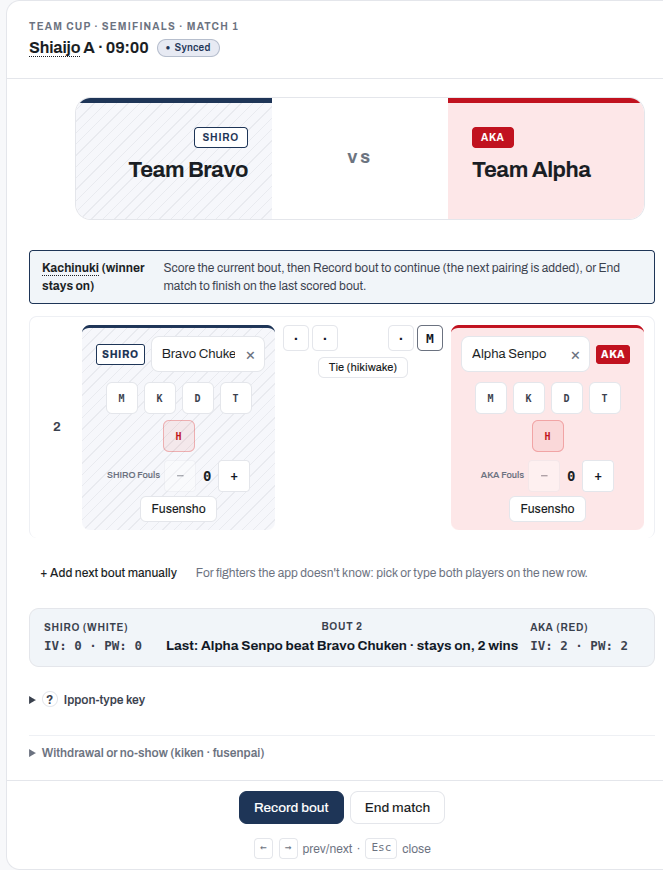
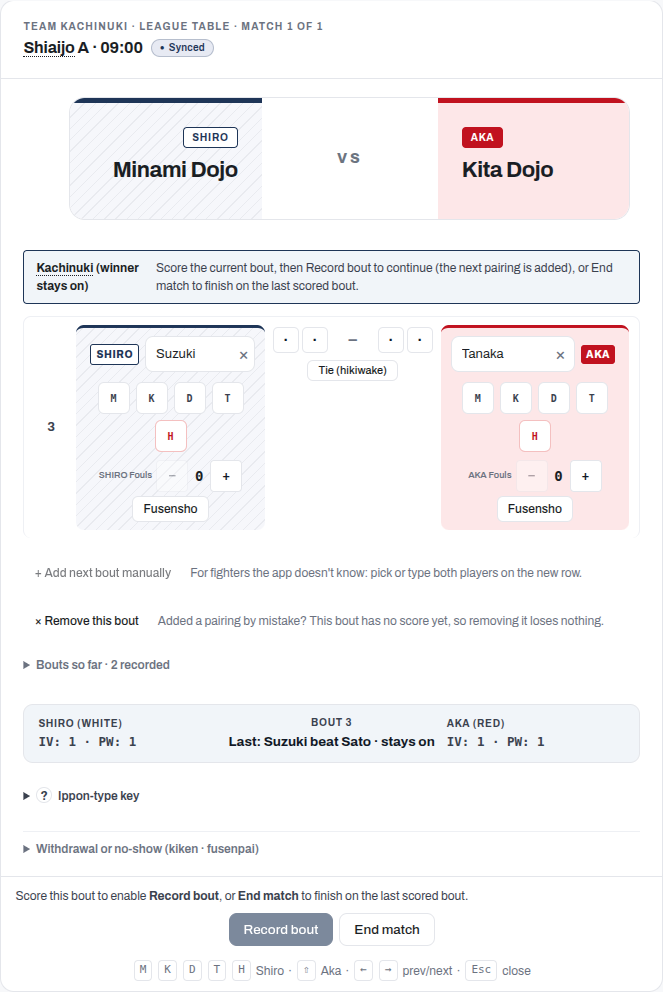
docs(mp-gmcg): document Remove-this-bout + refresh the kachinuki scorer shot
Reviewing the scoring docs surfaced two gaps: the "x Remove this bout" undo
(remove a mistakenly-appended kachinuki bout) was documented nowhere, and no
screenshot showed the new "Bouts so far" strip.

- scoring-a-match.md + team-tournaments.md now describe "x Remove this bout"
  (removes an unscored appended pairing without ending the encounter).
- Recaptured kachinuki-scoring-buttons.png from the running inline scorer: it
  now shows the Bouts-so-far log, the x Remove this bout undo, the outlined
  Hansoku-H, the disabled-Record hint, and the keyboard-shortcut hint. Embedded
  it in scoring-a-match.md too (was only in team-tournaments.md) so the
  court-operator guide illustrates the kachinuki surface it describes.

make docs/build strict + docs/check_links.py (35 pages, 1939 links) pass.

diff --git a/docs/user-guide/court-operators/scoring-a-match.md b/docs/user-guide/court-operators/scoring-a-match.md
@@ -66,4 +66,6 @@ If two courts recorded different results for the same match while one was offlin
 
 ## Team matches and kachinuki
 
-Kachinuki team encounters are scored one bout at a time. Score the current bout, then use **Record bout** to keep going (the winner stays on and the next pairing is added) or **End match** to finish on the last scored bout. You decide when the encounter is over, so end it when a team is out of fighters or when the other team's Taisho has been beaten. On a tied bout you also decide what the tie means, according to the [kachinuki mode](../organisers/team-tournaments.md#kachinuki-modes) in force: **Record bout** retires both fighters, **Encho** keeps the same pair fighting when the pairing must produce a result (available in any stage; under the taisho rule a Taisho who draws stays on, and **Record bout** pairs them with the next opponent automatically), and **End match** records a drawn encounter in pools or leagues. In a knockout a tied last bout cannot end the match, so continue with Record bout or Encho. If you finish too early, open the completed match and use **Reopen match** to carry on. Reopening takes a single tap; you are asked for a reason when you end the match again. The bouts you have already scored are listed under **Bouts so far** above the running totals, so you can check the winner-stays-on order at a glance without leaving the current bout. See [Scoring a kachinuki encounter](../organisers/team-tournaments.md#scoring-a-kachinuki-encounter) for the full flow.
+Kachinuki team encounters are scored one bout at a time. Score the current bout, then use **Record bout** to keep going (the winner stays on and the next pairing is added) or **End match** to finish on the last scored bout. You decide when the encounter is over, so end it when a team is out of fighters or when the other team's Taisho has been beaten. On a tied bout you also decide what the tie means, according to the [kachinuki mode](../organisers/team-tournaments.md#kachinuki-modes) in force: **Record bout** retires both fighters, **Encho** keeps the same pair fighting when the pairing must produce a result (available in any stage; under the taisho rule a Taisho who draws stays on, and **Record bout** pairs them with the next opponent automatically), and **End match** records a drawn encounter in pools or leagues. In a knockout a tied last bout cannot end the match, so continue with Record bout or Encho. If you finish too early, open the completed match and use **Reopen match** to carry on. Reopening takes a single tap; you are asked for a reason when you end the match again. The bouts you have already scored are listed under **Bouts so far** above the running totals, so you can check the winner-stays-on order at a glance without leaving the current bout, and **× Remove this bout** takes back an unscored pairing the app added by mistake without ending the encounter. See [Scoring a kachinuki encounter](../organisers/team-tournaments.md#scoring-a-kachinuki-encounter) for the full flow.
+
+![The kachinuki score editor: the winner-stays banner, the current bout with ippon buttons for each side, the Bouts so far log of the recorded bouts, the × Remove this bout undo, and the Record bout and End match footer actions.](../../screenshots/kachinuki-scoring-buttons.png)

diff --git a/docs/user-guide/organisers/team-tournaments.md b/docs/user-guide/organisers/team-tournaments.md
@@ -72,7 +72,9 @@ Kachinuki encounters are scored one bout at a time. Score the current bout, then
 - **Record bout** keeps the encounter going. The winner stays on and the app adds the next pairing; if the bout was a draw, both fighters retire and the next pair comes up. When the app cannot work out who fights next, for example when a team brings fighters it has not seen, use **Add next bout manually** and pick or type both players on the new row.
 - **End match** finishes the encounter on the last scored bout. The winning team is the one that won that bout; you do not pick it, the app reads it from the score.
 
-![The kachinuki score editor after a bout is scored, showing the winner-stays banner, the current bout with ippon buttons for each side, and the two footer actions Record bout and End match.](../../screenshots/kachinuki-scoring-buttons.png)
+If the app adds a pairing you did not want, for example an extra bout after the encounter was really over, use **× Remove this bout** to take it back. It only removes a bout that has no score yet, so nothing you have recorded is lost. The bouts you have already scored stay listed under **Bouts so far** above the running totals, so you can check the winner-stays-on order at a glance without leaving the current bout.
+
+![The kachinuki score editor after two bouts: the winner-stays banner, the current bout with ippon buttons for each side, the Bouts so far log of the recorded bouts, the × Remove this bout undo for a pairing added by mistake, and the Record bout and End match footer actions.](../../screenshots/kachinuki-scoring-buttons.png)
 
 When the last bout is tied, the editor offers every legitimate way forward and you choose, according to the [kachinuki mode](#kachinuki-modes) in force; the app never decides it from the stage:
 
